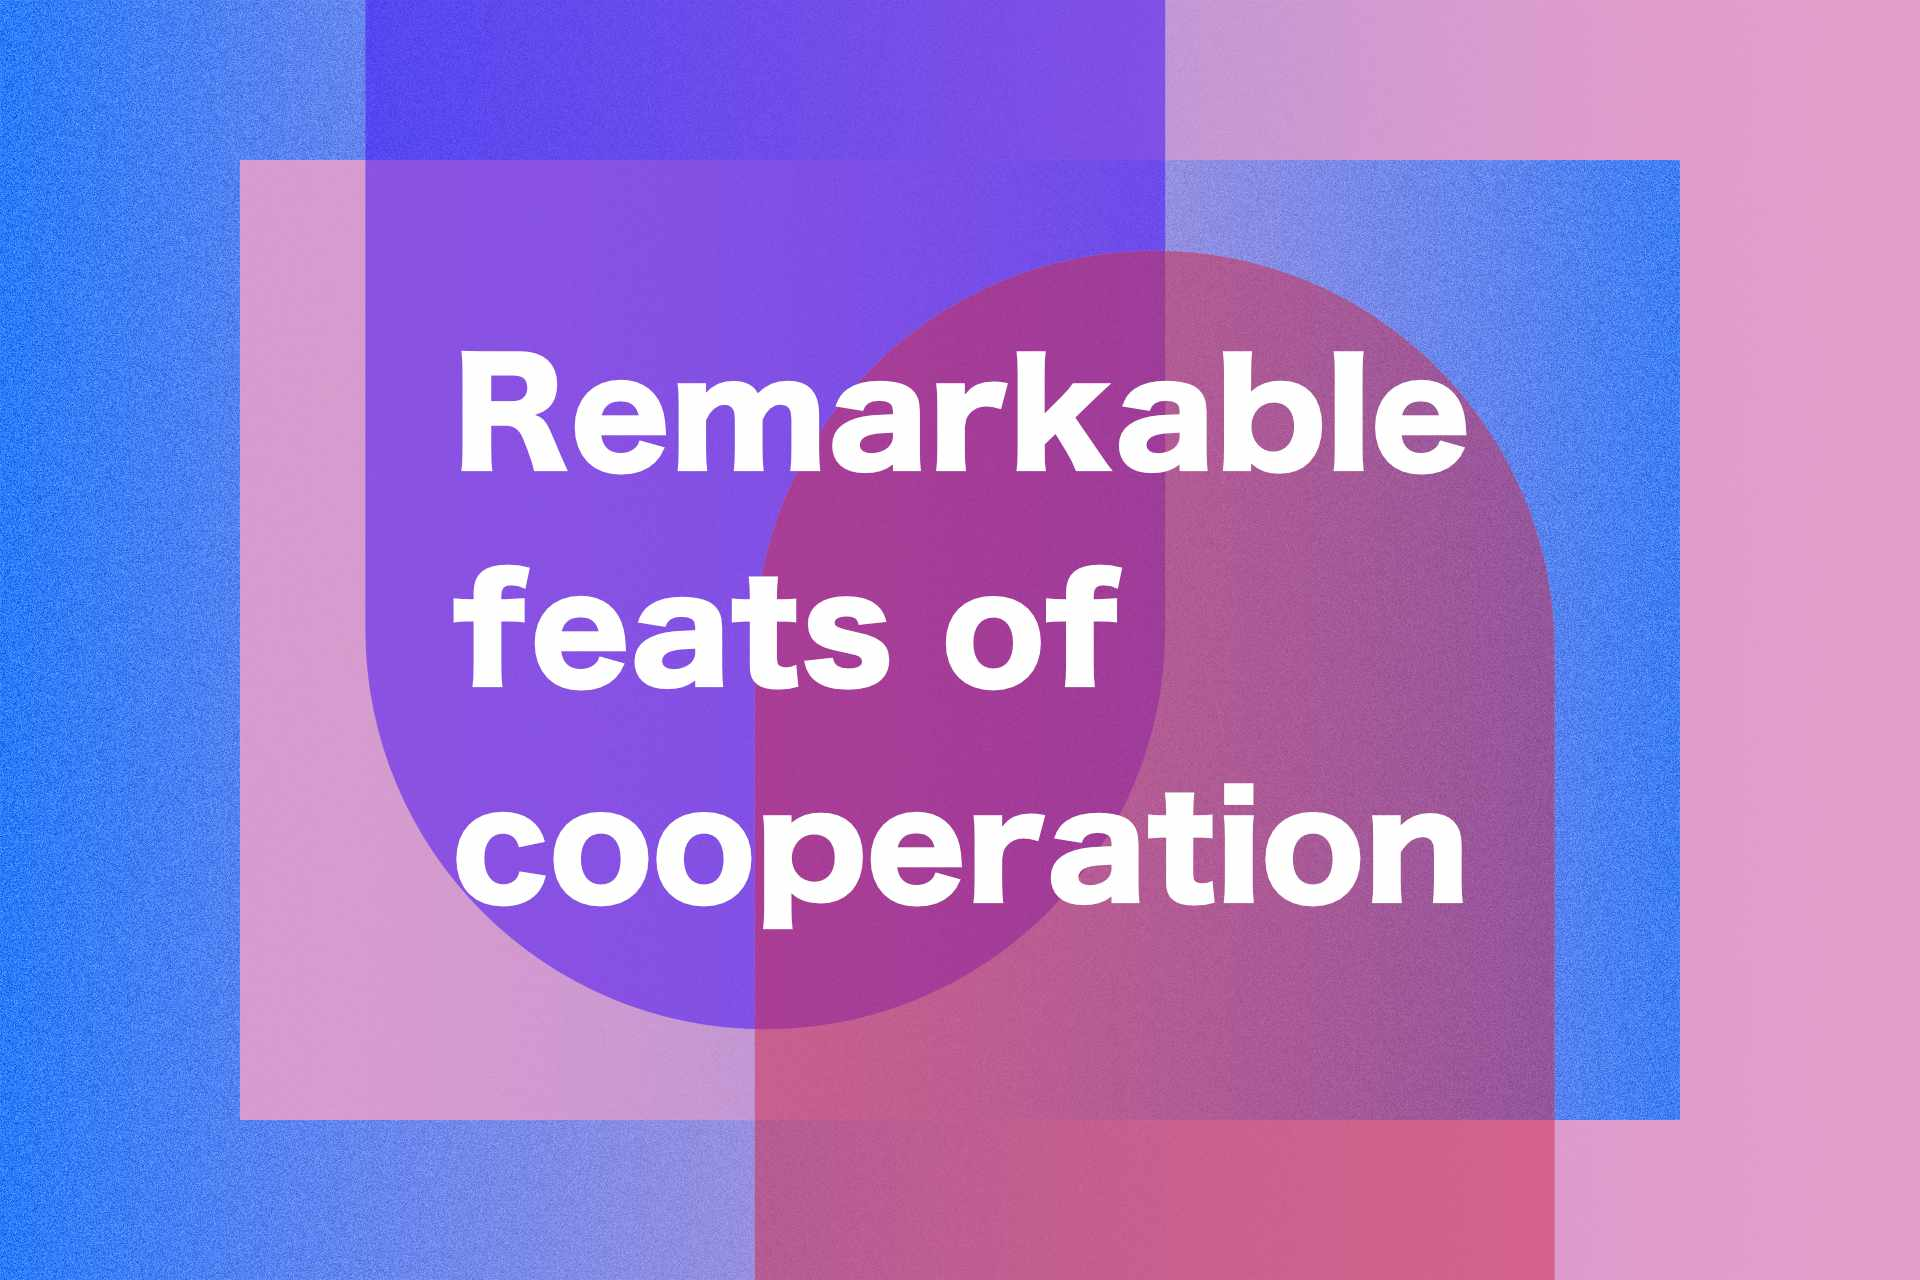
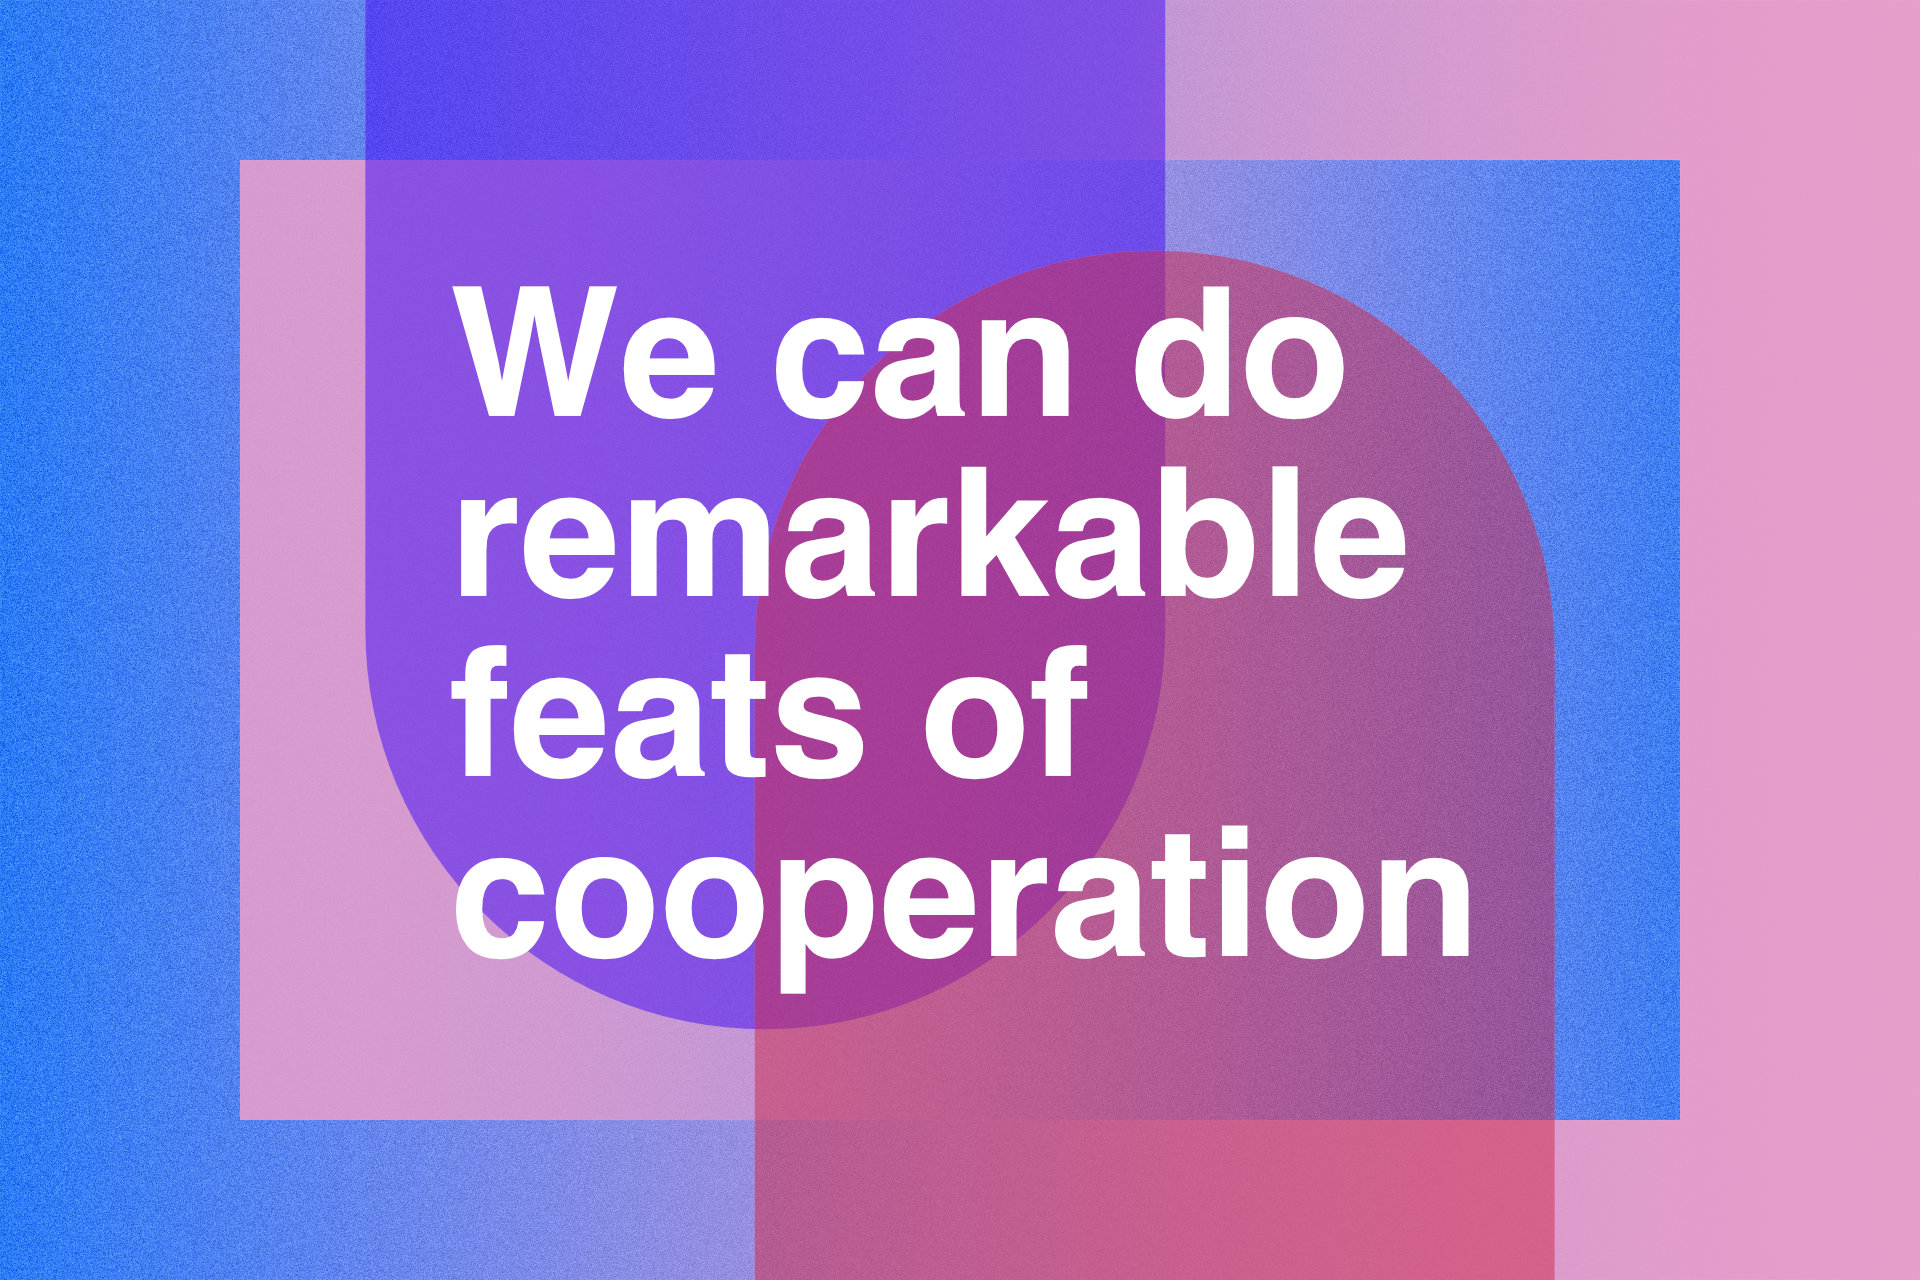
updated post

diff --git a/src/content/featsofcooperation.md b/src/content/featsofcooperation.md
@@ -1,43 +1,40 @@
 ---
 title: Remarkable feats of cooperation
 description: An optimistic exploration of moments in history where humans cooperated.
-date: 2022-05-02
+date: 2022-08-14
 path: /we-can-do-remarkable-feats-of-cooperation
 featuredImage: ./images/cooperation.jpg
-featuredImageAlt: "Abstract shapes showing a gradient with the text remarkable feats of cooperation."
+featuredImageAlt: "Abstract shapes showing a gradient with the text we can do remarkable feats of cooperation."
 tags: ["society","short","culture"]
 author:
 ---
 
-People generally make me hopeful, because of our immense capacity to cooperate.
+Humans make me hopeful because of our immense capacity to cooperate. 
 
-Many, if not all, of the things that have improved our quality of life rely on exactly this capacity.
+I'm optimistic for the future because mechanisms of cooperation are becoming better. From tools to instantly translate languages to platforms that allow us to share information globally.
 
-I'm optimistic for the future because the means to cooperate are increasingly becoming better. From tools to translate languages so that we can understand each other, to tools that allow us to share information instantly and globally.
+It's arguable that some of these tools are [disrupting cooperation](https://www.sipri.org/media/press-release/2022/world-stumbling-new-era-risk-concludes-sipri-report), however I believe more often than not they are being used to enhance it. These cooperative moments often get less attention than their disruptive counterparts, but they occur everyday and especially when we've needed it most.
 
-Of course it's arguable that these tools can disrupt cooperation, however I believe more often than not they are being used to enhance it, especially when we've needed it most. These cooperative moments are often smaller and get less attention than their disruptive counterparts but they exist
-
-A few examples of remarkable moments of cooperation that I think deserve attention.
+A few examples of remarkable moments of cooperation that are worth reflection.
 
 #### The Covid-19 vaccines
-The speed at which these were created, using technology and data that itself required cooperation on a global scale is remarkable. Two great articles which explore the depth of cooperation are on the [Guardian](https://www.theguardian.com/world/2020/dec/06/the-vaccine-miracle-how-scientists-waged-the-battle-against-covid-19) and [Nature](https://www.nature.com/articles/d41586-020-03626-1).
+The speed at which these were created, using technology and data, which required cooperation on a global scale is remarkable. Two great articles which explore the depth of cooperation are on the [Guardian](https://www.theguardian.com/world/2020/dec/06/the-vaccine-miracle-how-scientists-waged-the-battle-against-covid-19) and [Nature](https://www.nature.com/articles/d41586-020-03626-1).
 
 >To go from the discovery of a deadly new virus to the creation of a tested vaccine that can block its effects in less than a year is unprecedented in scientific history.
 
 #### The healing of the Ozone layer
-Did you know in 2019, the UNEP announced that the world was on track to have completely healed [it's Ozone layer](https://news.un.org/en/story/2019/09/1046452)? This good result is with thanks to the Montreal Protocol and the cooperation undertaken by all the parties involved.
-
+Did you know in 2019, the UNEP announced that the world was on track to have completely healed [it's Ozone layer](https://news.un.org/en/story/2019/09/1046452)? This amazing result is with thanks to the Montreal Protocol and the cooperation undertaken by all the parties involved. [How we fixed the ozone layer](https://www.worksinprogress.co/issue/how-we-fixed-the-ozone-layer/)
 
 >The Montreal Protocol is, to date, the only UN treaty to be adopted by all Member States, with all parties sharing responsibilities relating to phasing out ozone-depleting substances, controlled trade of such substances, annual data reporting and other matters.
-
 
 #### The Apollo program and the Moon landings
 The level of cooperation required across domains, teams and competing constraints to achieve the missions make for fantastic reading, some of which is covered in the [Apollo Experience](https://appel.nasa.gov/2007/04/01/managing-nasas-complex-space-flight-programs-the-apollo-experience/).
 
->It may turn out that [the space program’s] most valuable spin-off of all will be human rather than technological: better knowledge of how to plan, coordinate, and monitor the multitudinous and varied activities of the organizations required to accomplish great social undertakings.
+>It may turn out that [the space program’s] most valuable spin-off of all will be human rather than technological: better knowledge of how to plan, coordinate, and monitor the multitudinous and varied activities of the organizations required to accomplish great social undertakings.  
 
+Overall, moments like these make me hopeful for our shared future, because we can do remarkable feats of cooperation. 
 
-
-Overall, feats like these make me hopeful for our shared future.
+--- 
+Additional writing that you may like to explore along this line of thinking include [Longtermism from Our World in Data](https://ourworldindata.org/longtermism), [people’s capacity for cooperation](https://www.theguardian.com/commentisfree/2021/jan/02/psychologists-pandemic-cooperation-government-public-britain#comments).
 
 If you have any feedback on this post do [get in touch](/contact).
